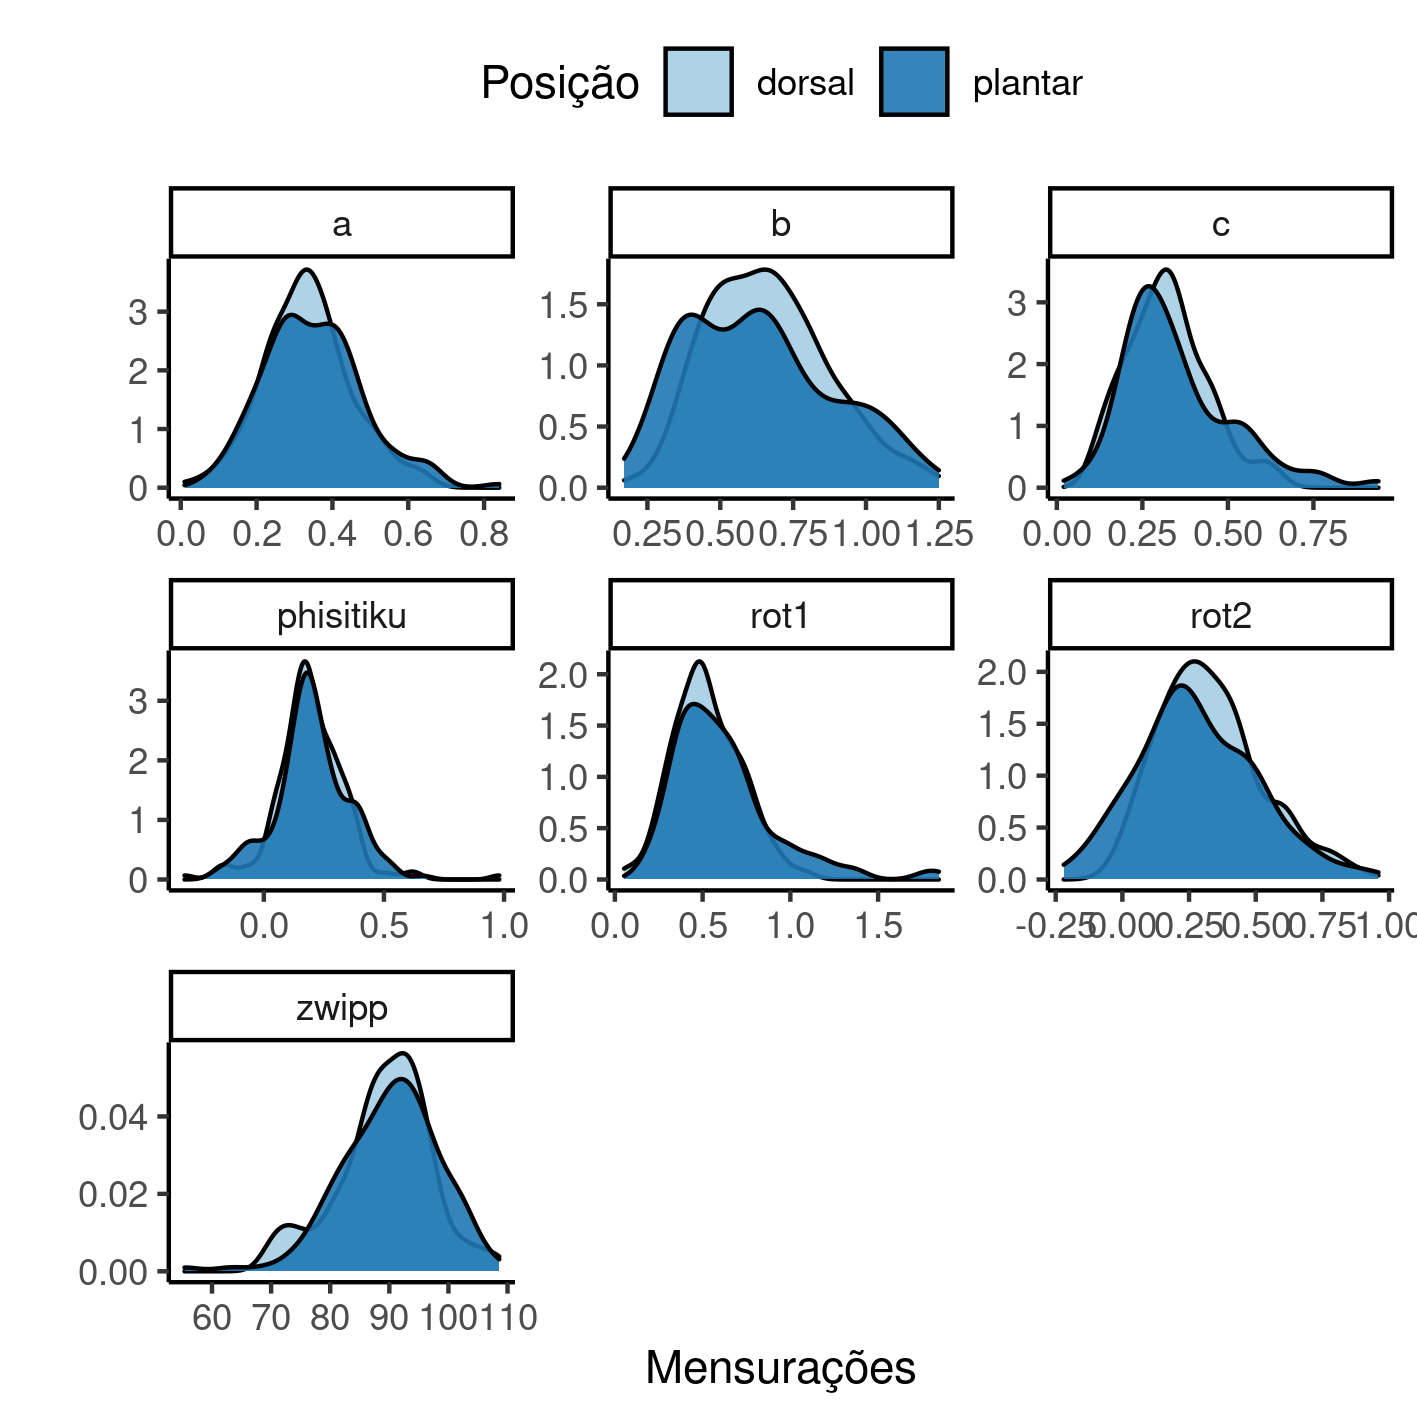
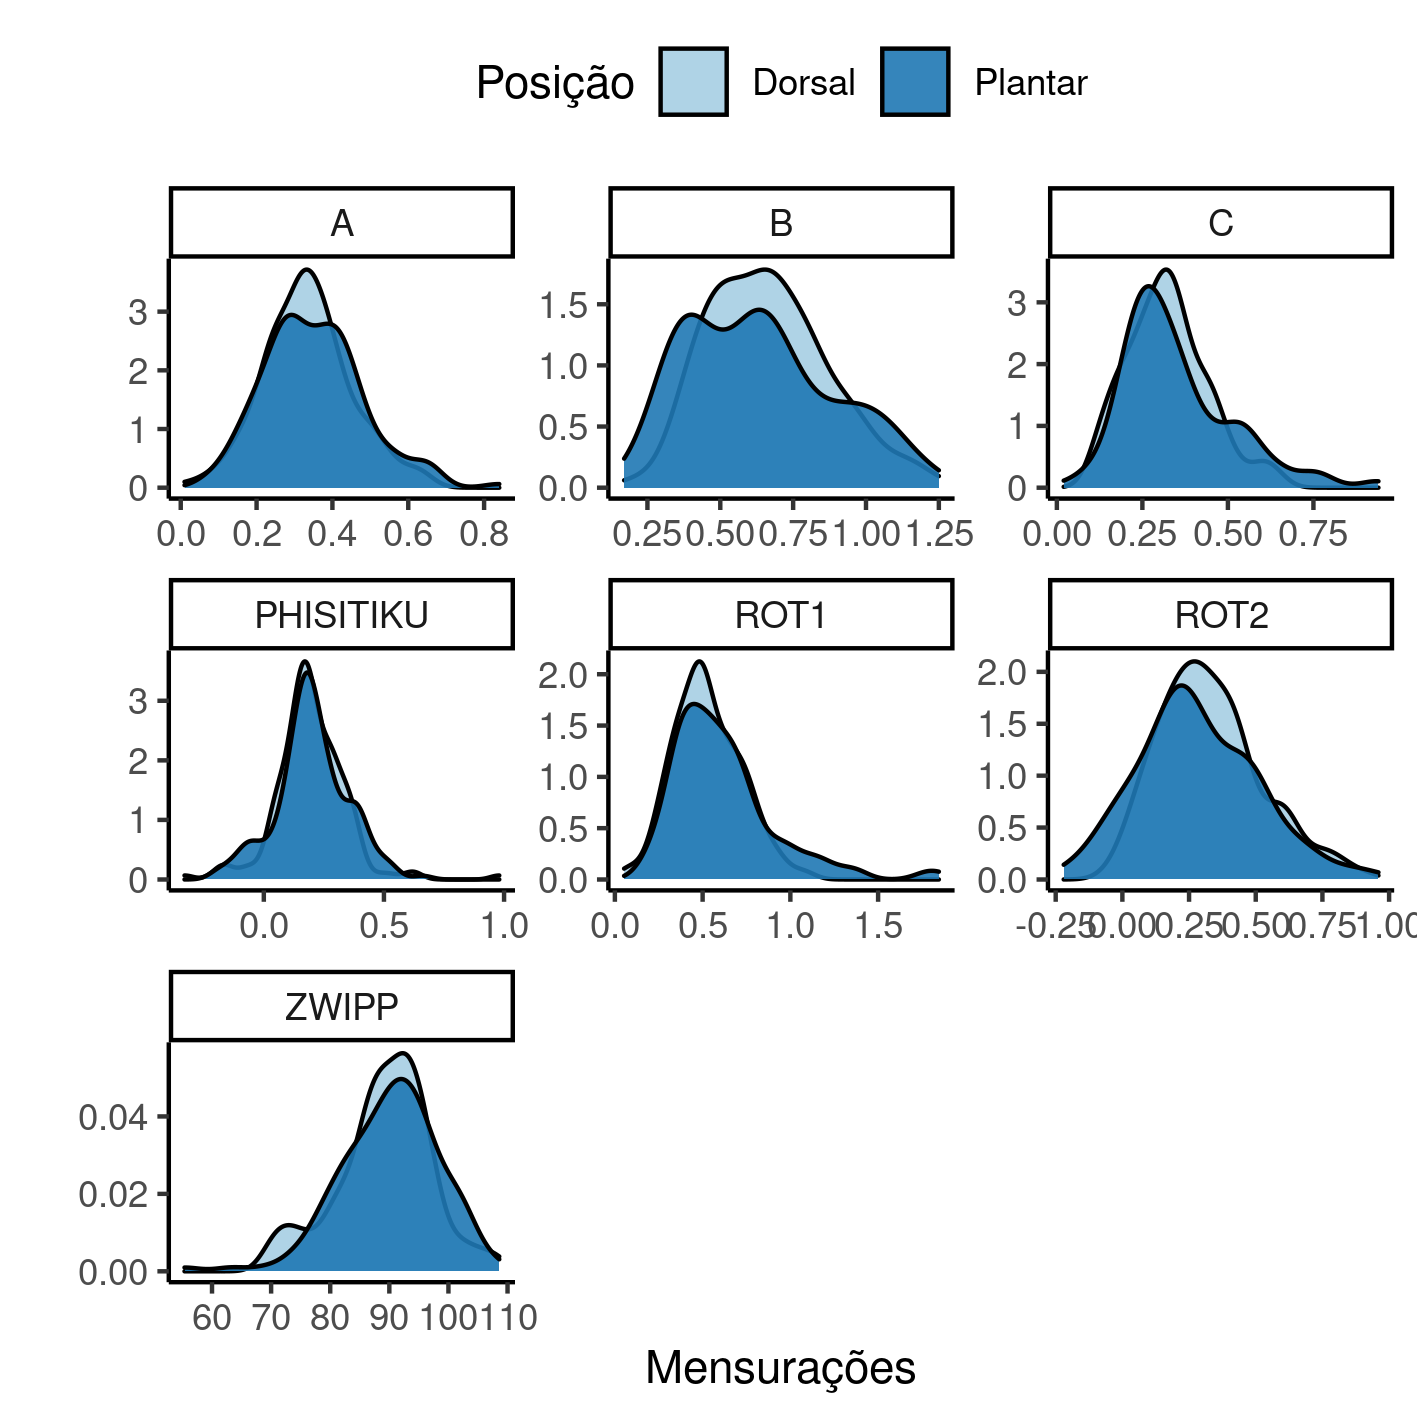
labels: levels posição e mensurações

diff --git a/report/SAR-2022-012-IC-v01.md b/report/SAR-2022-012-IC-v01.md
@@ -2,7 +2,7 @@
 title: "Consistência inter-avaliador de mensurações radiológicas para diagnóstico de sindesmose"
 subtitle: 'DOCUMENTO: SAR-2022-012-IC-v01'
 author: '**De:** Felipe Figueiredo **Para:** Isnar Castro'
-date: "2022-05-10"
+date: "2022-05-18"
 output:
   html_document:
     fig_caption: yes
@@ -75,7 +75,7 @@ Esta análise foi realizada utilizando-se o software `R` versão 4.1.3.
 
 Table: **Tabela 1** caption
 
-|          **Características**           | **dorsal**, N = 174 | **plantar**, N = 174 |
+|          **Características**           | **Dorsal**, N = 174 | **Plantar**, N = 174 |
 |:--------------------------------------:|:-------------------:|:--------------------:|
 | __Distância A, Média (Desvio Padrão)__ |     0.33 (0.12)     |     0.35 (0.13)      |
 |              Desconhecido              |         11          |          10          |
@@ -136,7 +136,7 @@ Table: **Tabela 2** caption
 
 Table: **Tabela 3** caption
 
-|**Características**                | **dorsal**, N = 163 | **plantar**, N = 163 | **Valor p** |
+|**Características**                | **Dorsal**, N = 163 | **Plantar**, N = 163 | **Valor p** |
 |:----------------------------------|:-------------------:|:--------------------:|:-----------:|
 |Rotação 1, Média (Desvio Padrão)   |     0.53 (0.19)     |     0.62 (0.30)      |   <0.001    |
 |Rotação 2, Média (Desvio Padrão)   |     0.33 (0.19)     |     0.28 (0.23)      |    0.004    |
